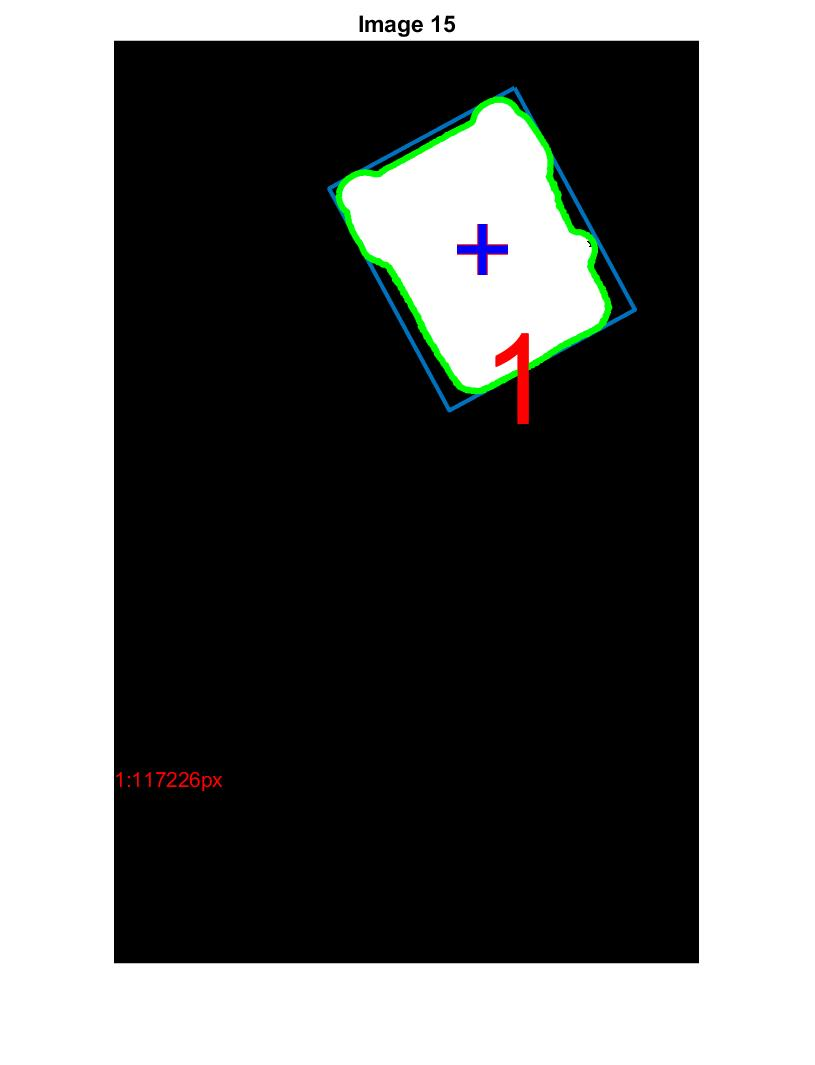
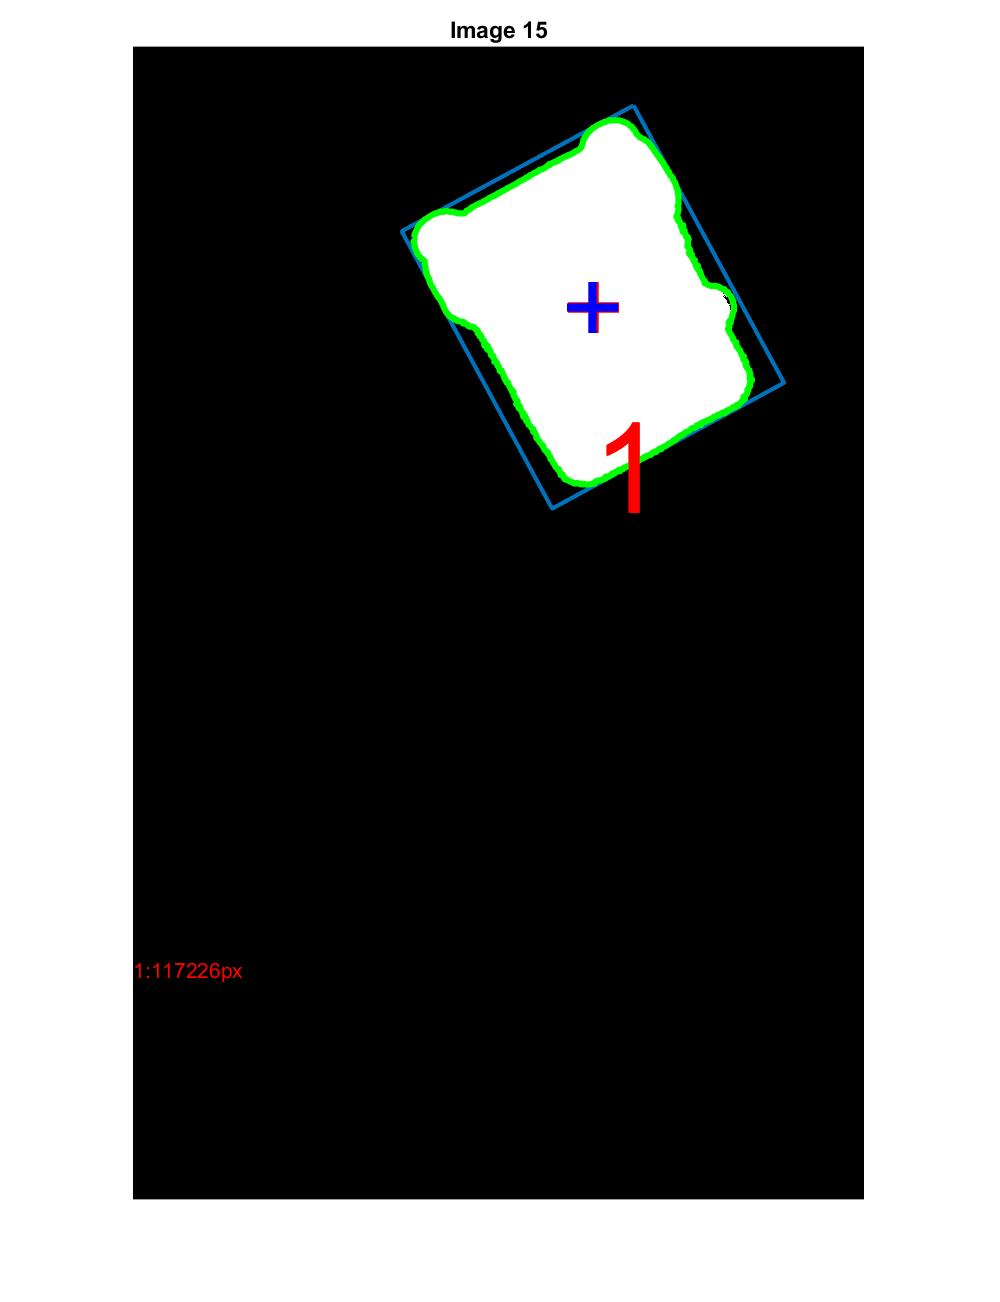
yep

diff --git a/3-Optical/FindCentroid.m b/3-Optical/FindCentroid.m
@@ -14,7 +14,7 @@ for i=1:length(imageFiles)
     %}
     I_gray = rgb2gray(I);
     
-    binaryTolerance = 0.1;
+    binaryTolerance = 0.3;
     I_binarized = imbinarize(I_gray,binaryTolerance);
     %imshow(I_binarized)
     [I_boundaries,~,~,~] = bwboundaries(I_binarized);
@@ -35,12 +35,12 @@ for i=1:length(imageFiles)
     boundingRectangles = findBoundingRectangles(objects,I_binarized);
 
     for j=1:length(objects)
-        objectBoundary = objects{j};
+        %objectBoundary = objects{j};
         boundingRectangle = boundingRectangles{j};
         %%%% Plotting grayscale image overlaid with cube outline
         %%% and geometric centroid overlaid
         if plotGrayscale == 1
-            plotEdgeCentroid(objectBoundary,j)
+            %plotEdgeCentroid(objectBoundary,j)
             plotBoundingCentroid(boundingRectangle,j)
         end
     end

diff --git a/3-Optical/EdgeOutlineDetection.m b/3-Optical/EdgeOutlineDetection.m
@@ -16,7 +16,7 @@ plotBinarized = 0;
 
 %%% Search desired image folder for relevant images
 imageDirectory = 'Images/';
-imageSet = 'occ*';
+imageSet = 'multi*';
 if strcmp(imageSet,'8*')
     imageType = 'RealImages';
 elseif strcmp(imageSet,'multi')
